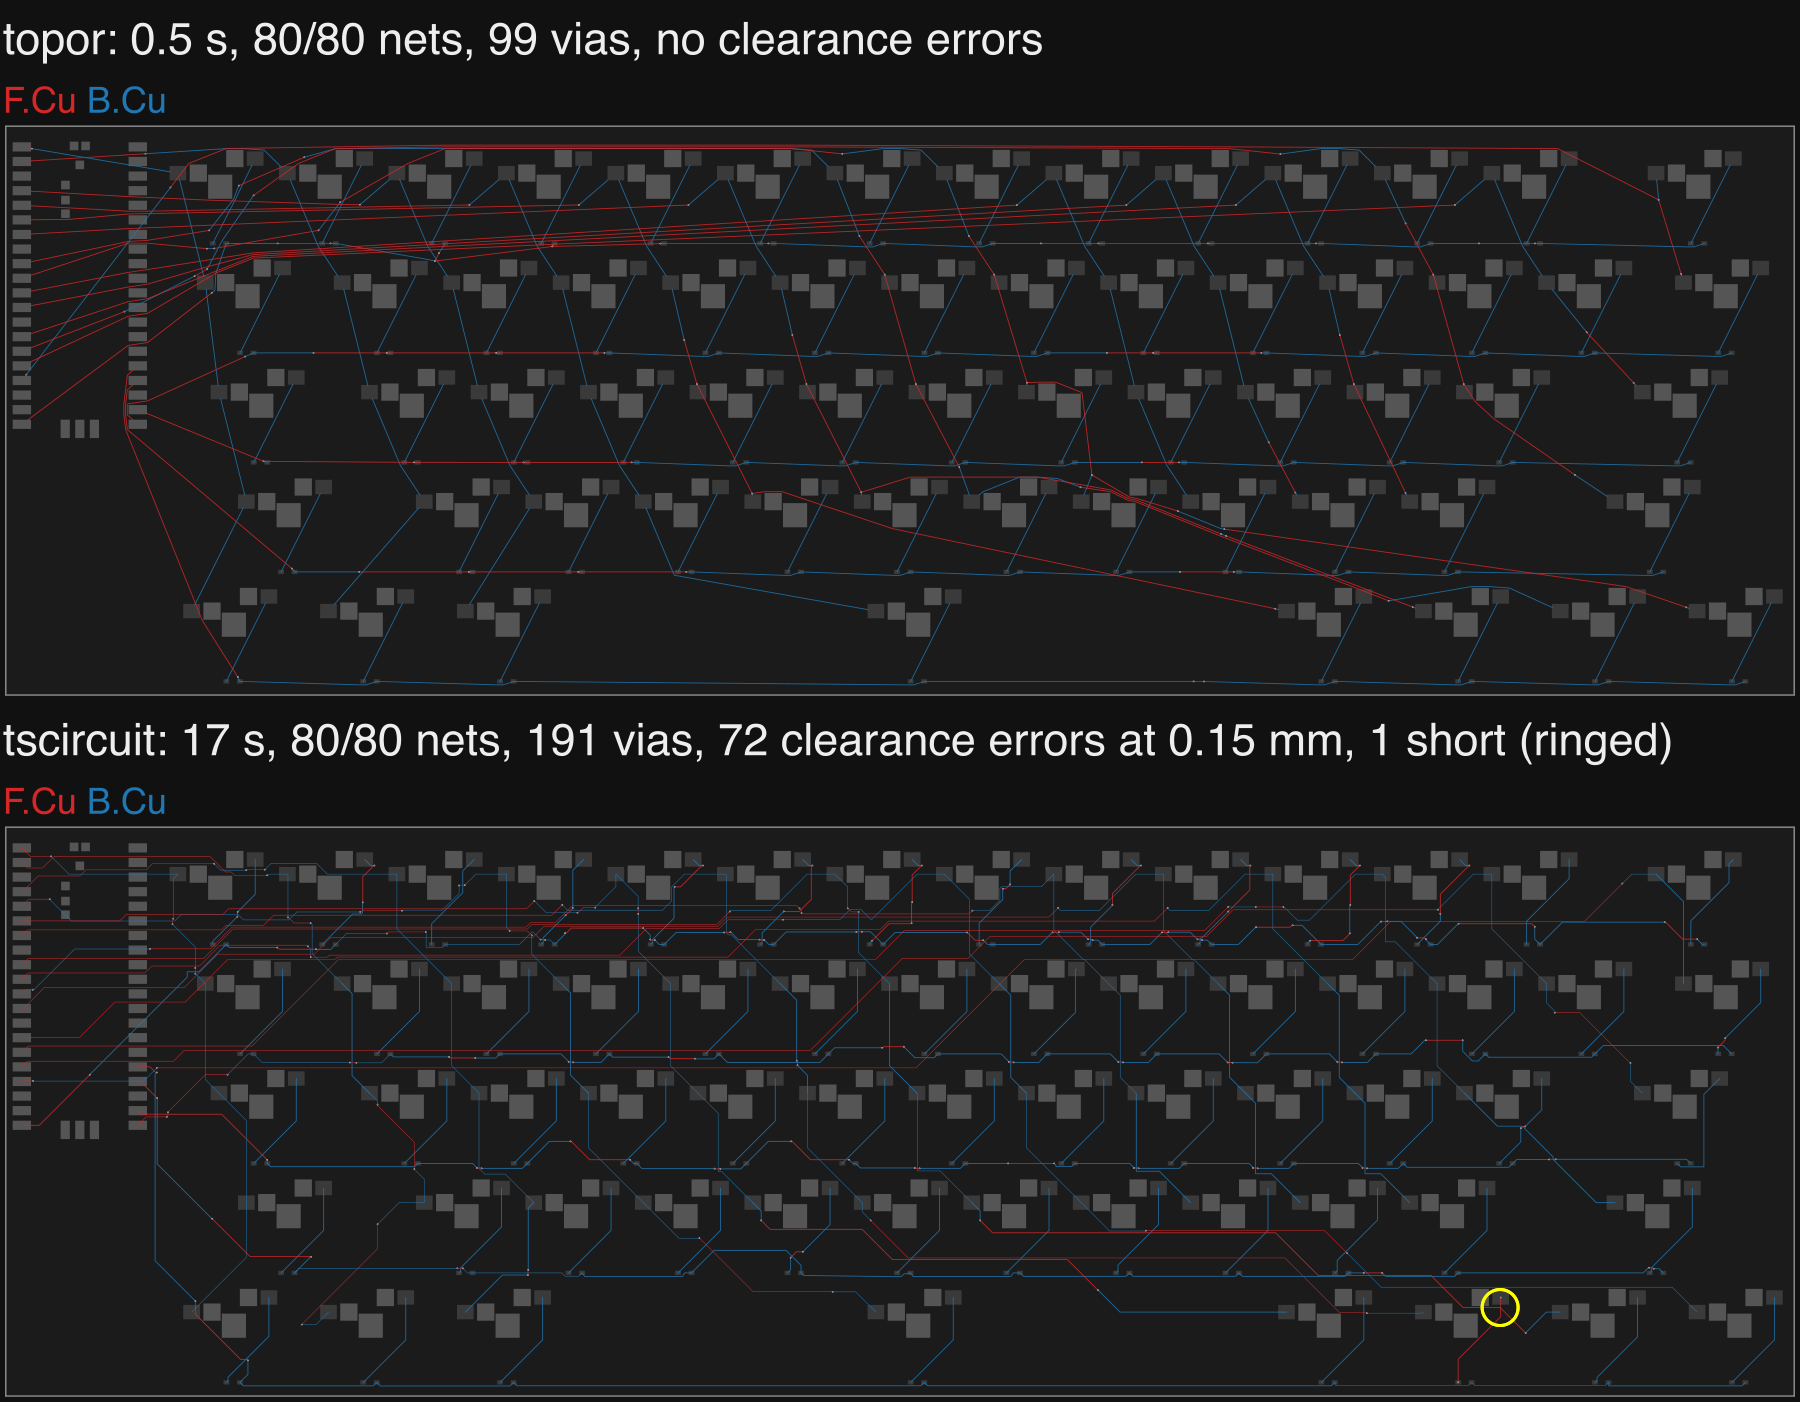
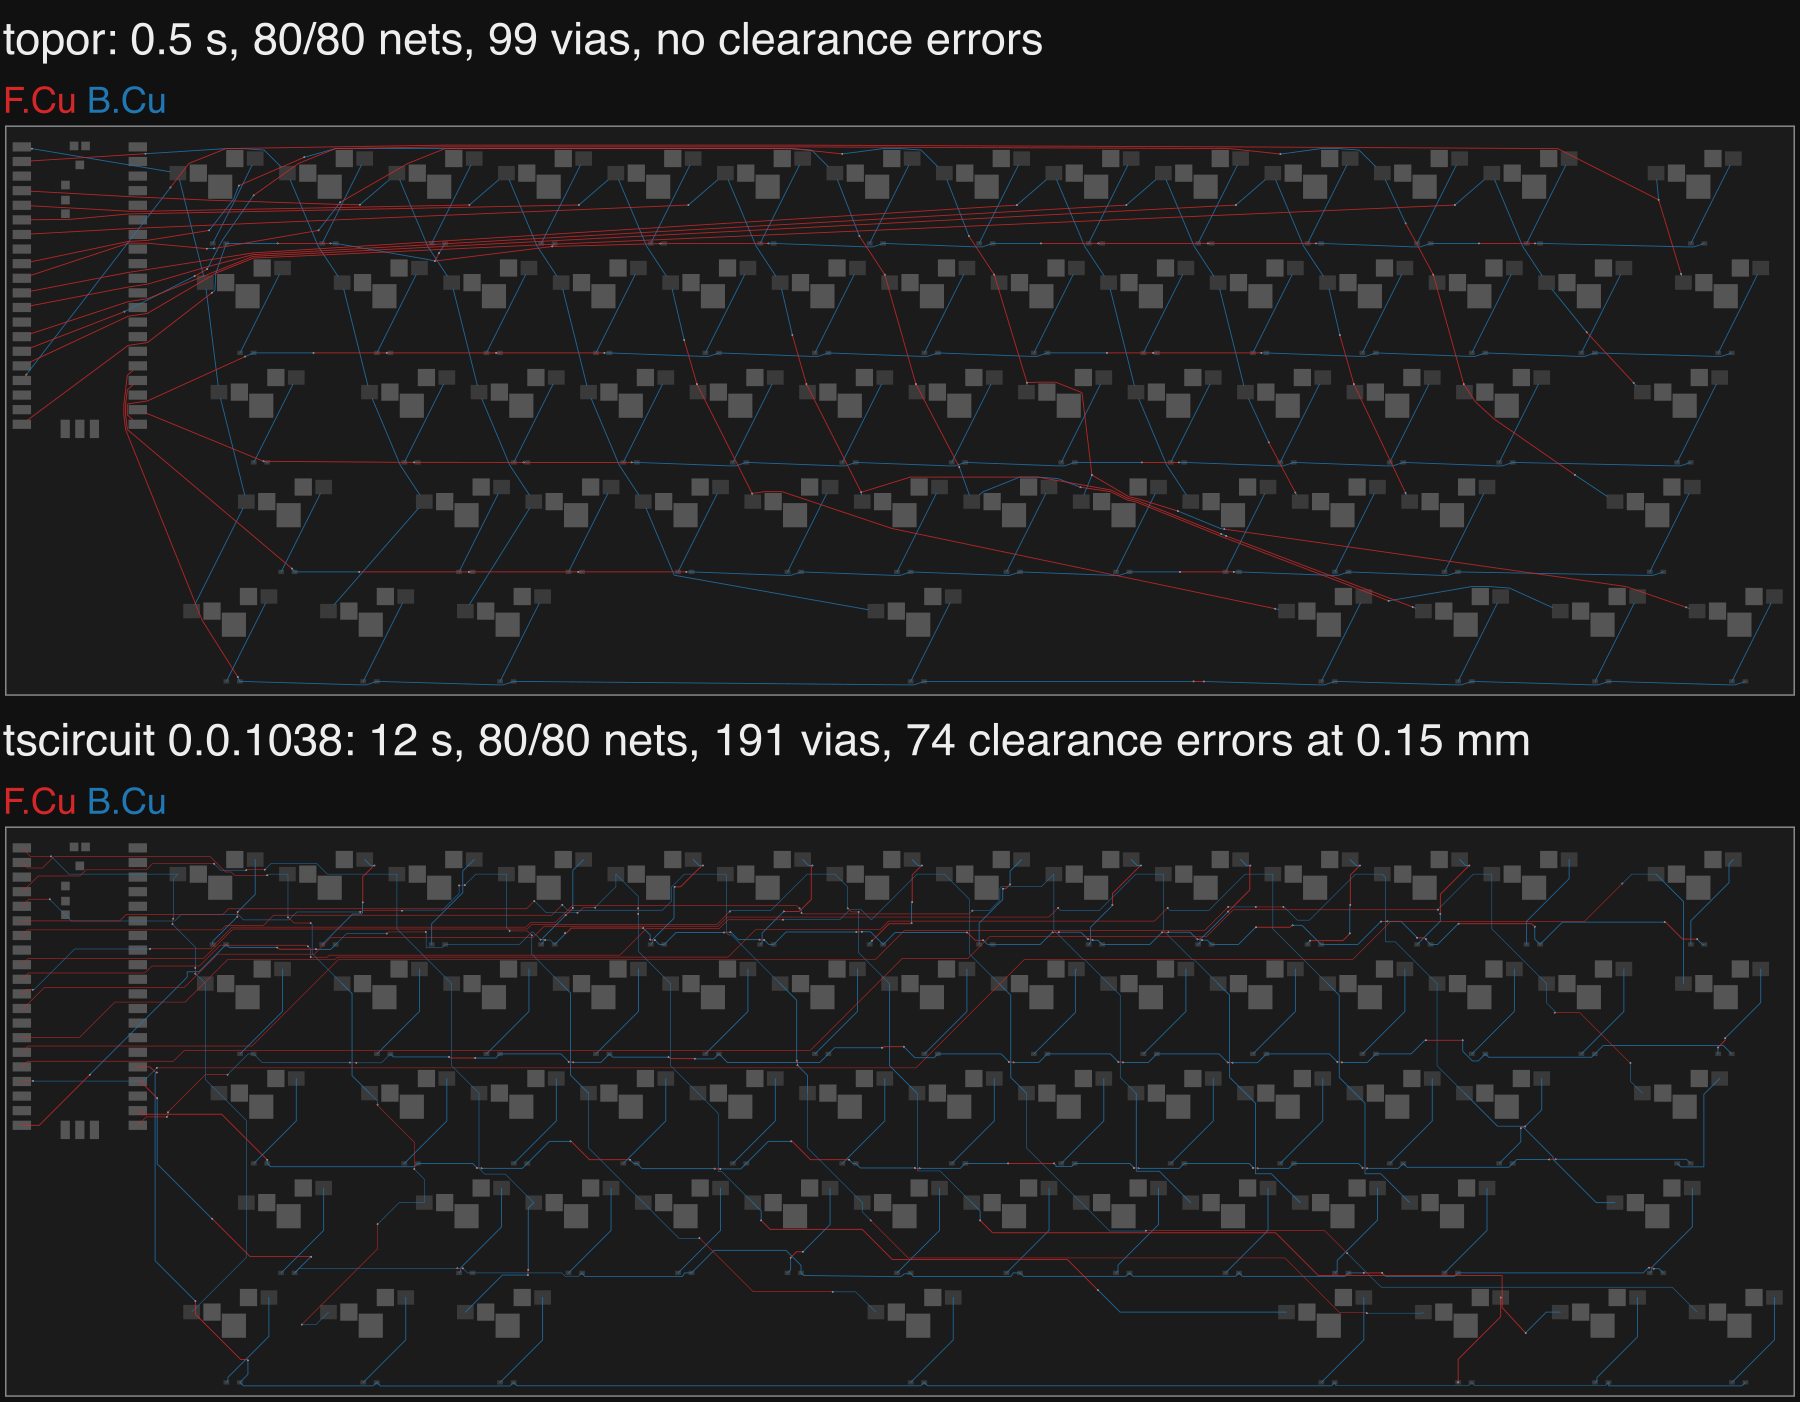
bench: Pico keyboard rerun with tscircuit 0.0.1038 (12 s, no short)
The keyboard section (f1a4209) used tscircuit 0.0.1015, the rest of the README 0.0.1038. Rerun with 0.0.1038,
same fixtures and topor 24faf65 (topor's results are byte-identical to before):

keyboard4: tscircuit 16.9 -> 12.1 s, 191 vias, 74 errors at 0.15 mm, 1 at 0.1 mm (a track 0.025 mm from a via),
no overlaps. keyboard5: 17.6 -> 12.1 s, 206 vias, 105 / 18 errors, no overlaps.

0.0.1015 crossed two nets on both boards; 0.0.1038 does not. The README says so, and the image is re-rendered
without the ringed short.

Changed region(s): [[0.0933, 0.4907, 0.9333, 0.5521], [0.8089, 0.9201, 0.84, 0.9508]]

diff --git a/bench/pcb/tscircuit/README.md b/bench/pcb/tscircuit/README.md
@@ -87,25 +87,25 @@ TSCIRCUIT_AUTOROUTER=... TOPOR_BENCH=... python3 bench/pcb/tscircuit/compare.py 
   tests ask for (`RELAXED_DRC_OPTIONS`). tscircuit's one result is checked against both.
 - **Holes:** they stay as tscircuit gives them, rectangular obstacles on both layers.
 - **Checking:** there is no KiCad board, so `check_layout.py` is the only judge.
-- **Versions:** topor 24faf65 (M3 Max) against tscircuit 0.0.1015 (Node 24). The tweet is from 3 October; 0.0.1015 is
-  the newest version this machine's npm minimum-age policy installs.
+- **Versions:** topor 24faf65 (M3 Max) against tscircuit 0.0.1038 (Node 24), the tscircuit of the table above. The
+  tweet is from 3 October.
 
 | Board | Engine | Time | Nets | Vias | Track mm | Clearance errors at 0.15 mm | at 0.1 mm | Shorts | Tracks under 0.15 mm wide |
 |---|---|---|---|---|---|---|---|---|---|
 | keyboard4 | topor | 0.5 s | 80/80 | 99 | 5838 | 0 | 0 | 0 | 0 |
 | | topor at 0.1 mm | 0.6 s | 80/80 | 111 | 5850 | – | 0 | 0 | 0 |
-| | tscircuit | 16.9 s | 80/80 | 191 | 6397 | 72 | 2 | 1 | 121 |
+| | tscircuit | 12.1 s | 80/80 | 191 | 6400 | 74 | 1 | 0 | 121 |
 | keyboard5 | topor | 0.5 s | 80/80 | 116 | 5608 | 0 | 0 | 0 | 0 |
 | | topor at 0.1 mm | 0.6 s | 80/80 | 115 | 5596 | – | 0 | 0 | 0 |
-| | tscircuit | 17.6 s | 80/80 | 206 | 6161 | 103 | 19 | 1 | 132 |
+| | tscircuit | 12.1 s | 80/80 | 206 | 6164 | 105 | 18 | 0 | 132 |
 
-- **tscircuit's time matches its claim:** 16.9 s here. It reports both boards solved.
-- **The short:** on both boards, tscircuit's `source_net_7` crosses `source_trace_174` on the top layer near
-  (260, 84) mm in model coordinates. No obstacle or connectivity net joins the two; the checker counts it as two
-  overlapping segments, which are keyboard4's two errors at 0.1 mm.
+- **tscircuit's time matches its claim:** 12.1 s on either board. It reports both boards solved.
+- **tscircuit's errors at 0.1 mm:** on each board, a track 0.025 mm from a via. keyboard5 also has 17 segments of one
+  track 0.024–0.048 mm from a 3 mm switch hole.
+- **An older tscircuit shorted two nets:** 0.0.1015 (29 October) crossed `source_net_7` over `source_trace_174` on the
+  top layer of both boards. 0.0.1038 keeps them apart.
 - **Neck-downs:** about a third of tscircuit's tracks are 0.1 mm wide, below the SRJ's own `minTraceWidth`.
-- **keyboard5's other 0.1 mm errors:** 17 segments of one track, 0.024–0.048 mm from a 3 mm switch hole.
-- **topor:** complete and clean at either clearance, in 0.5–0.6 s against tscircuit's 17 s, with about half the
+- **topor:** complete and clean at either clearance, in 0.5–0.6 s against tscircuit's 12 s, with about half the
   vias and 9% less track.
 
-![keyboard4: topor (top), tscircuit (bottom); the short ringed](results/keyboard4-topor-vs-tscircuit.png)
+![keyboard4: topor (top), tscircuit (bottom)](results/keyboard4-topor-vs-tscircuit.png)
